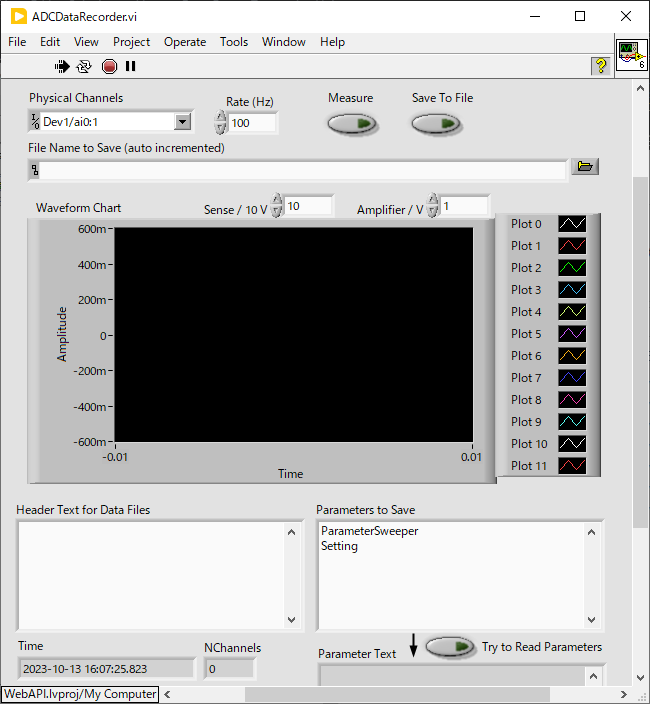
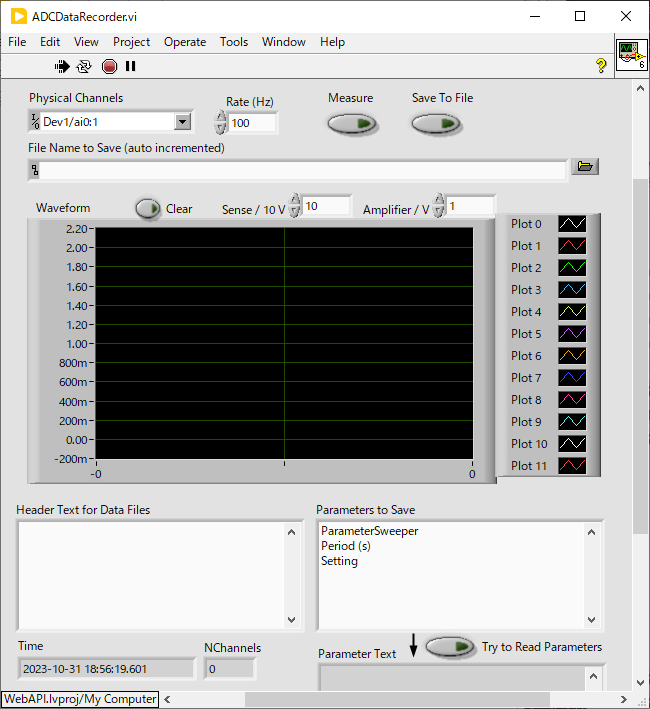
ドキュメントの更新

diff --git a/Readme.md b/Readme.md
@@ -198,3 +198,28 @@ LabVIEW メタプログラミングの勧め
   - それを使って `hardware/StanfordSysResDG645DelayGenerator.vi` を書き換えた
 - 2023-10-30
   - [`lib/Hardware/TextControlledInstrum` ライブラリにチュートリアルを書いた](lib/Hardware/TextControlledInstrum-Tutorial.md)
+- 2023-10-31
+  - `TextControlledInstrum` の `ReadCommand.vi`, `WriteCommands.vi` を複数の VI で使うと Queue の共有に失敗してエラーになるため毎回 Queue を作り直すようにした
+  - `SignalRecovery7280Lock-inAmp.vi` に Connect ボタンを追加した
+    - `ParameterManager` でこの値を保存しておくと自動で接続できる
+  - `SettingManager` 関連
+    - `EnumOpenedVIs.vi` サブVIとして動作中のもの、壊れているものを表示しないようにした
+    - `CtrlTreeReload.vi` でエラーが生じても止まらないようにした
+    - `CtrlTreeAddControls.vi` が Disable なコントロールをスキップするようにした
+    - `CtrlTreeAddDummyNodes.vi` の正規表現を単純化してエラーが出ないようにした
+    - `SavedSettingsOpenAllVIs.vi` にブレークポイントが含まれていたのを除去した
+  - `SetGetControlValue` で `VISA Refnum` コントロールの読み書きをサポートした
+  - `NFCorpLI5640Lock-inAmp.vi` を追加した
+  - `TextControlledInstrum` の数値パラメータの読み書きコマンドにスケールとオフセットを指定できるようにした（未テスト）
+  - `ADCDataRecorder.vi` を手直し
+    - `Waveform` チャートの見た目を変更
+    - `Clear` ボタンを追加
+    - `Parameters to Save` で VI 名が `DataRecorder.vi` のままになっておりエラーが出てたのを直した
+    - データファイルに書き込むヘッダー情報のターミネーターを null 文字に変更した
+  - `ParameterSweeper.vi` 関連
+    - `Record Sync` で Sweep を止めるときも連動するようにした
+    - VI とコントロールの選択肢を改善
+      - VI のリストに動作中のサブ VI が入らないようにした
+      - 配列コントロールを適切に追加するようにした
+  - `DACSinglePoint.vi` の値を制御する配列コントロールの名前を Values に改名した
+  	- 長いと `ParameterSweeper.vi` で指定しづらいため
